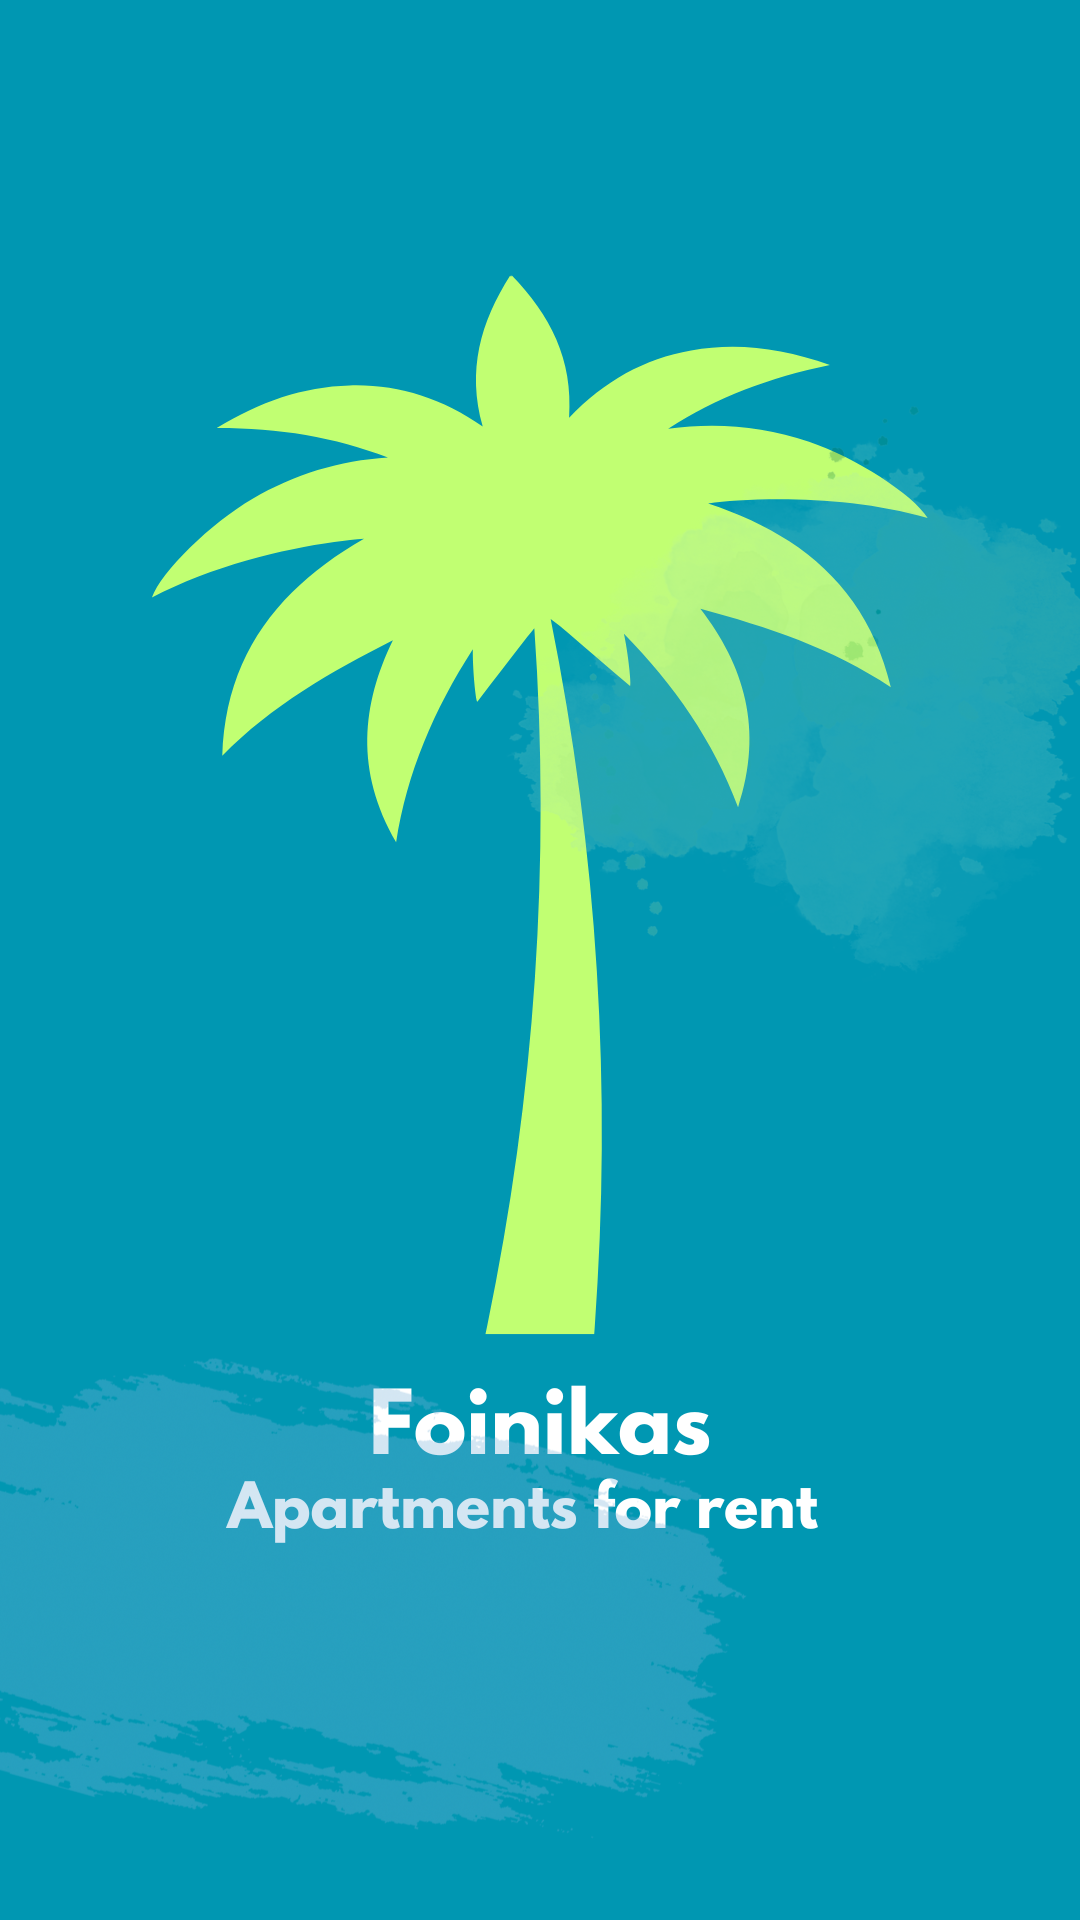
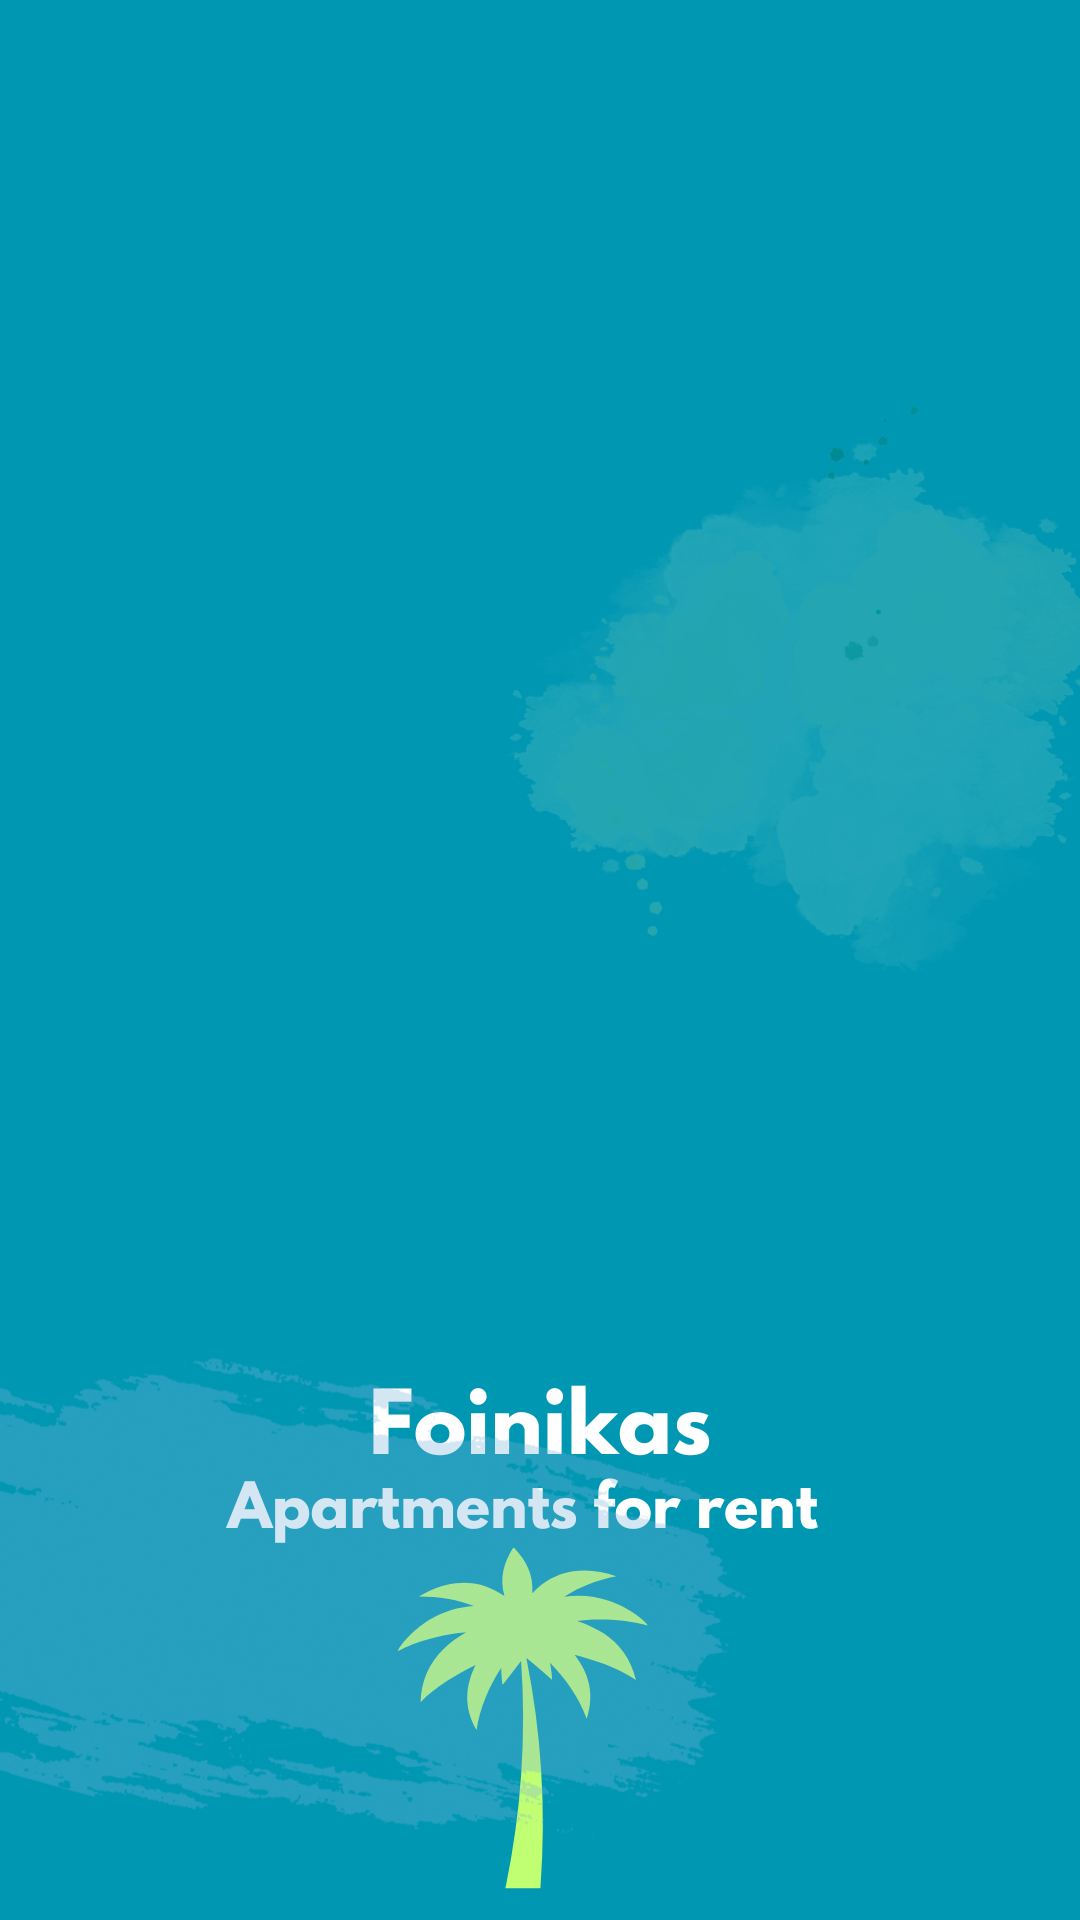
MAKE MORE MINOR ADJUSTMENTS!!!!!

Changed region(s): [[0.1528, 0.125, 0.8556, 0.7188], [0.3667, 0.8125, 0.5806, 1.0]]

diff --git a/styles.css b/styles.css
@@ -121,6 +121,9 @@ h1 {
   #home {
     background-image: url(Images/homeMobile.png);
     background-attachment: local;
+    display: flex;
+    align-items: center;
+    justify-content: center;
   }
 
   #location {
